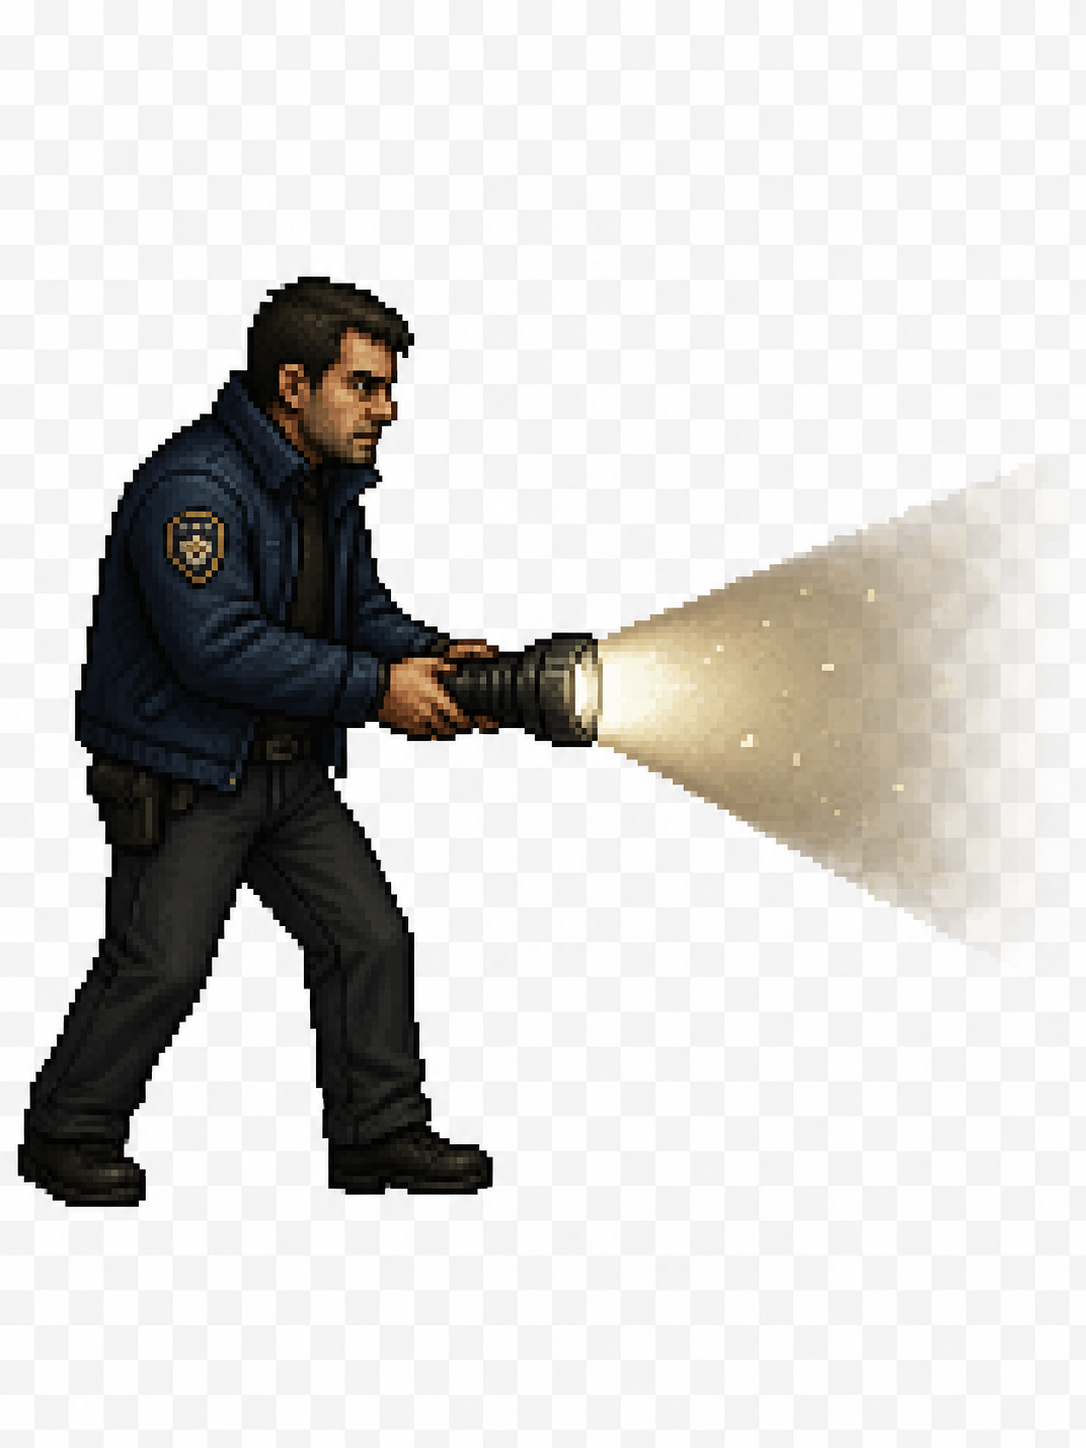
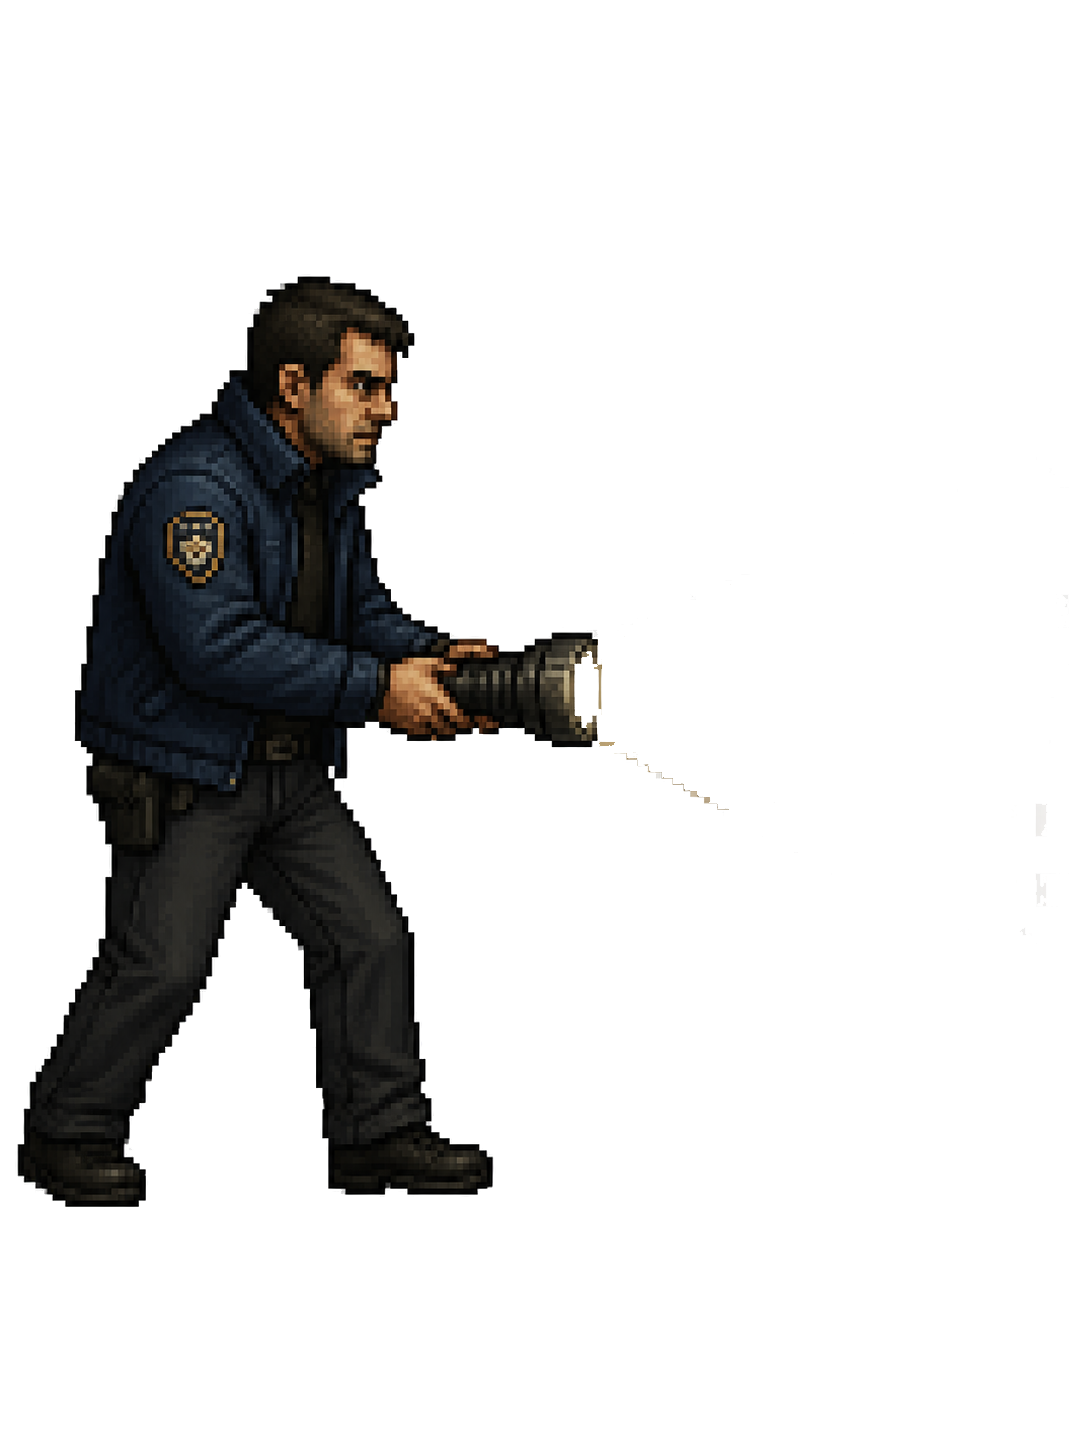
guard werkend gemaakt in eastwatchiside

Changed region(s): [[0.5166, 0.3108, 0.9724, 0.6526]]

diff --git a/src/js/scenes/eastwatchinside.js b/src/js/scenes/eastwatchinside.js
@@ -1,4 +1,4 @@
-import { Actor, Color, CollisionType, Axis, BoundingBox, Scene, Vector, Timer, Keys, Label, Font } from "excalibur"
+import { Actor, Color, CollisionType, Axis, BoundingBox, Scene, Vector, Timer, Keys, Label, Font, Polygon, Shape } from "excalibur"
 import { Drone } from "../drone"
 import { Player } from "../player"
 import { Resources } from "../resources"
@@ -148,28 +148,58 @@ export class EastwatchInside extends Scene {
         const guard = new Actor({
             x: 700, y: 335,
             width: 30, height: 50,
-            color: Color.fromHex("#e53e3e"),
             collisionType: CollisionType.Fixed
         })
+        guard.graphics.use(Resources.Guard.toSprite())
+        guard.scale = new Vector(0.1, 0.1)
         this.add(guard)
+
+        // --- Driehoekige vision hitbox (1 punt richting de guard) ---
+        const visionWidth = 350
+        const visionHeight = 60
+
+        const trianglePoints = [
+            new Vector(-visionWidth / 2, 0),
+            new Vector(visionWidth / 2, -visionHeight / 2),
+            new Vector(visionWidth / 2, visionHeight / 2)
+        ]
 
         const visionHitbox = new Actor({
             x: 900, y: 335,
-            width: 350, height: 60,
             collisionType: CollisionType.Passive,
-            color: Color.Red
+            collider: Shape.Polygon(trianglePoints)
         })
-        visionHitbox.graphics.opacity = 0
+
+        const visionGraphic = new Polygon({
+            points: trianglePoints,
+            color: Color.Yellow
+        })
+        visionHitbox.graphics.use(visionGraphic)
+        visionHitbox.graphics.opacity = 0.3
         this.add(visionHitbox)
 
         let lookingLeft = false
+
+        function updateVisionSide() {
+            if (lookingLeft) {
+                visionHitbox.pos.x = guard.pos.x - 175 - 15
+                visionHitbox.graphics.flipHorizontal = true
+                guard.graphics.flipHorizontal = true
+            } else {
+                visionHitbox.pos.x = guard.pos.x + 175 + 15
+                visionHitbox.graphics.flipHorizontal = false
+                guard.graphics.flipHorizontal = false
+            }
+        }
+
+        updateVisionSide()
+
         const guardTimer = new Timer({
             interval: 3000,
             repeats: true,
             fcn: () => {
                 lookingLeft = !lookingLeft
-                guard.pos.x = lookingLeft ? 550 : 700
-                visionHitbox.pos.x = lookingLeft ? 350 : 900
+                updateVisionSide()
             }
         })
         this.add(guardTimer)
@@ -187,6 +217,7 @@ export class EastwatchInside extends Scene {
             y: 40,
             collisionType: CollisionType.PreventCollision
         })
+
         const objectiveLabel = new Label({
             text: "Objective: vind de serverruimte en steel de data.",
             x: 0,
@@ -197,8 +228,9 @@ export class EastwatchInside extends Scene {
         this.add(objective)
         objective.addChild(objectiveLabel)
 
+        let dataStolen = false
+
         this.on("preupdate", () => {
-            // Zet de actor op de linkerbovenhoek van de huidige camera-viewport
             objective.pos.x = this.camera.pos.x - engine.drawWidth / 2 + 40
             objective.pos.y = this.camera.pos.y - engine.drawHeight / 2 + 40
 
@@ -208,44 +240,23 @@ export class EastwatchInside extends Scene {
             }
         })
 
-        let caught = false
-        let dataStolen = false
-
         this.on("activate", () => {
-            caught = false
             dataStolen = false
         })
 
-        visionHitbox.on("collisionstart", (event) => {
-            if (event.other.owner?.name === "player" && !caught && !dataStolen) {
-                caught = true
-                player.vel.x = 0
-                player.vel.y = 0
+        visionHitbox.on("collisionstart", (evt) => {
+            if (dataStolen) return
 
-                const fade = new Actor({
-                    x: engine.drawWidth / 2,
-                    y: engine.drawHeight / 2,
-                    width: engine.drawWidth,
-                    height: engine.drawHeight,
-                    color: Color.Black
-                })
-                fade.graphics.opacity = 0
-                this.add(fade)
+            const hitPlayer =
+                evt.other instanceof Player
+                    ? evt.other
+                    : evt.other?.owner instanceof Player
+                        ? evt.other.owner
+                        : null
 
-                const fadeTimer = new Timer({
-                    interval: 40,
-                    repeats: true,
-                    fcn: () => {
-                        fade.graphics.opacity += 0.05
-                        if (fade.graphics.opacity >= 1) {
-                            fadeTimer.cancel()
-                            engine.lastScene = "eastwatchinside"
-                            engine.goToScene("vestracity.js")
-                        }
-                    }
-                })
-                this.add(fadeTimer)
-                fadeTimer.start()
+            if (hitPlayer) {
+                console.log("BETRAPT door de guard! Terug naar de start.")
+                hitPlayer.startKnockout()
             }
         })
 